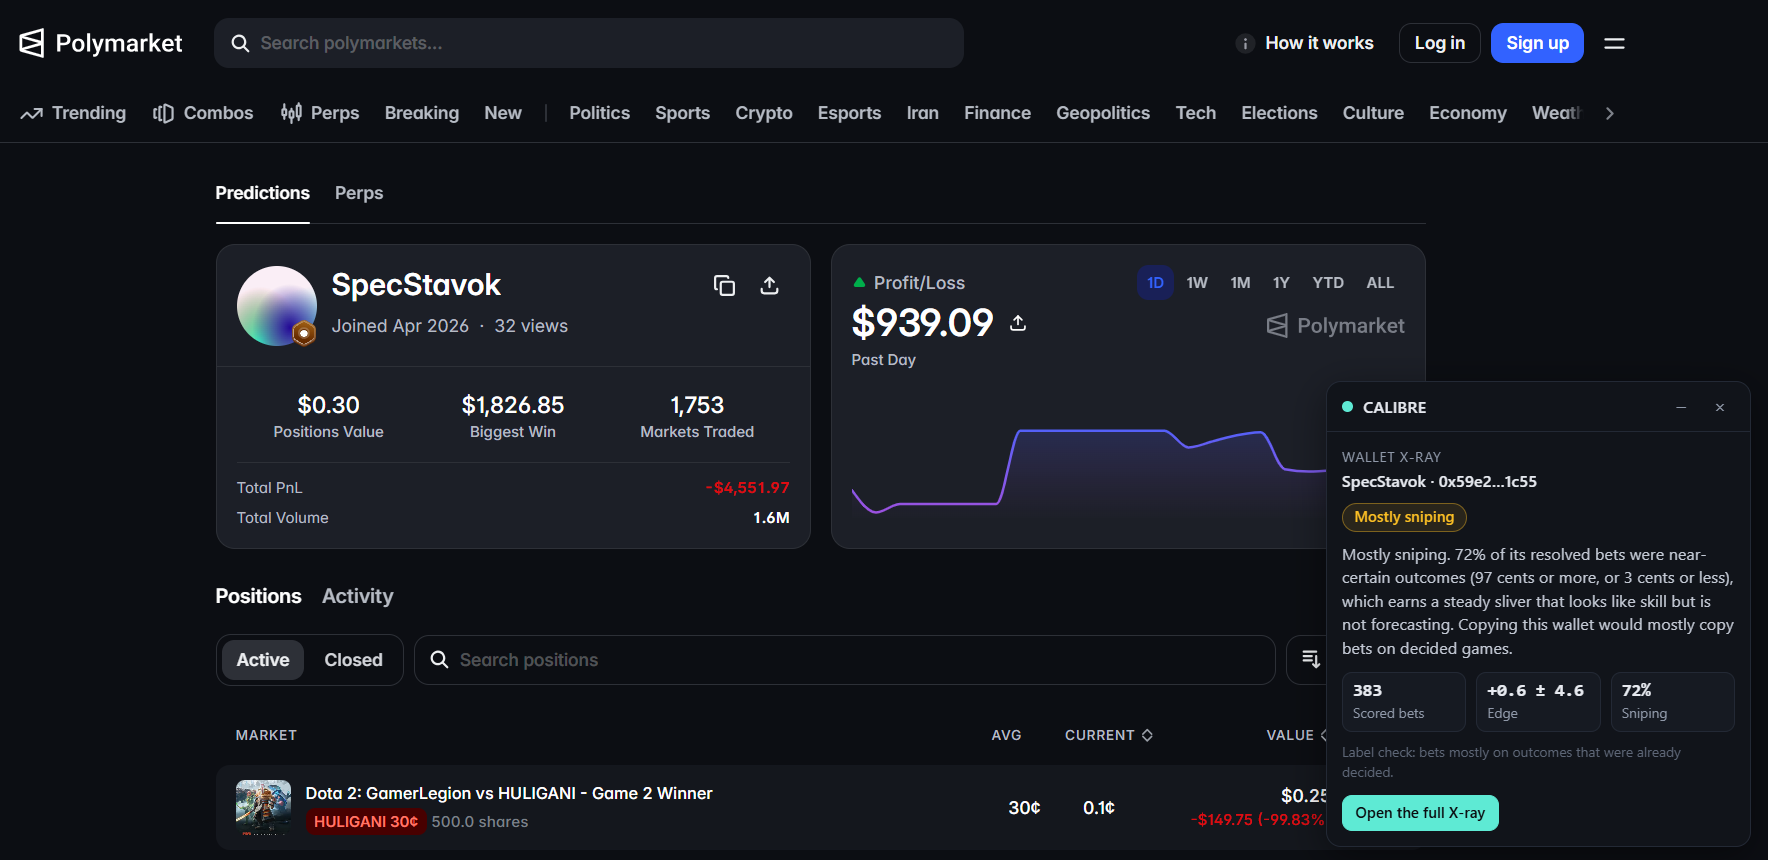
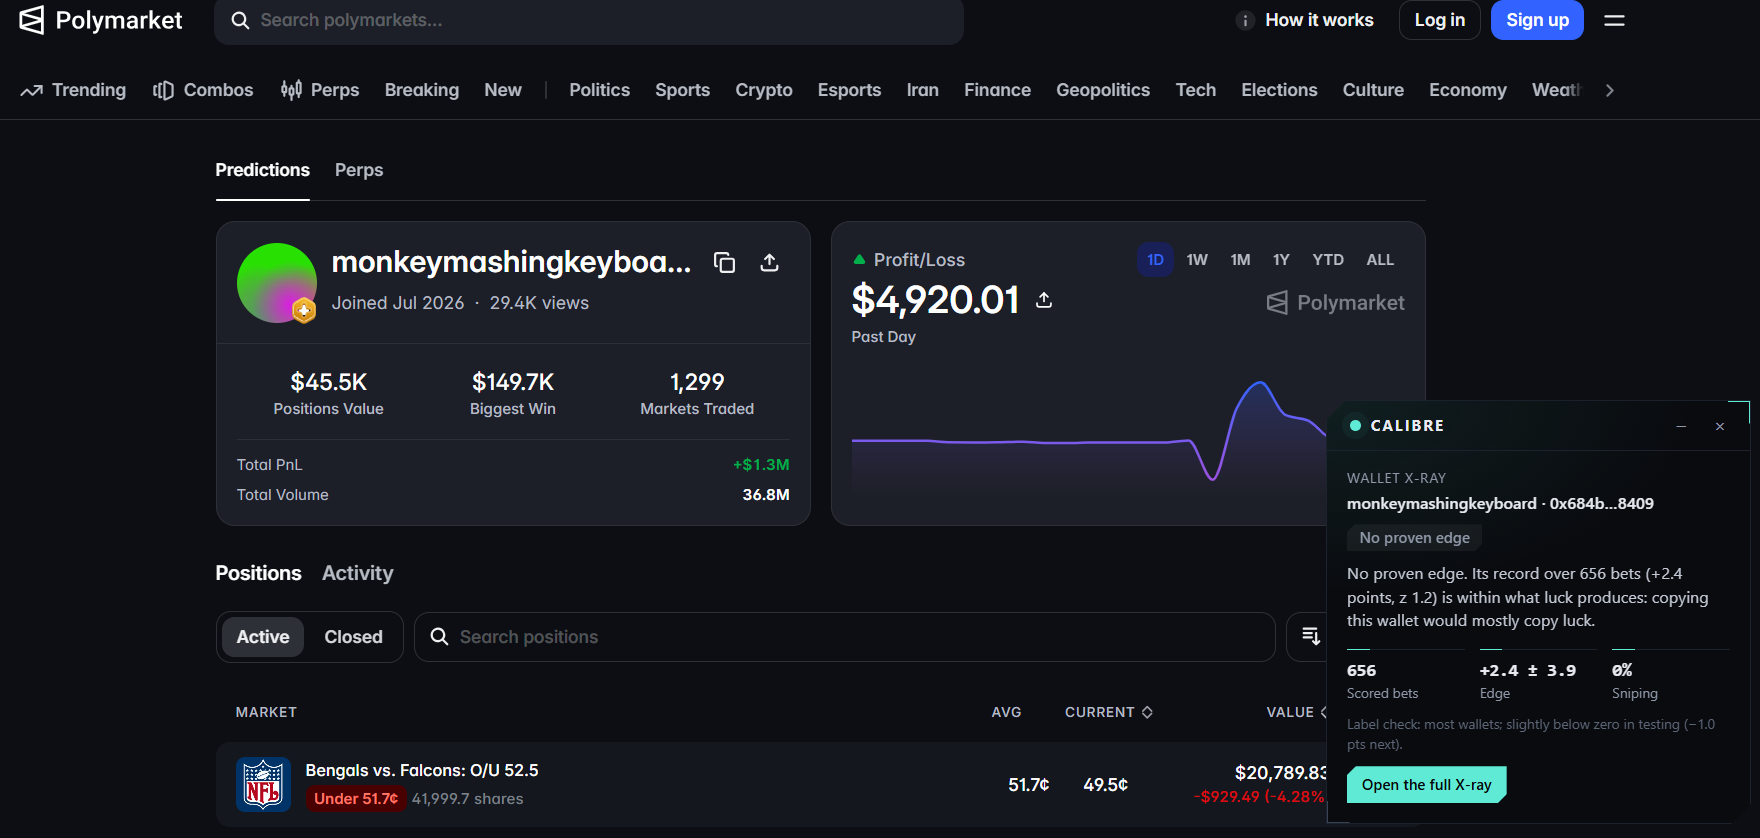
Use a real screenshot of the redesigned extension panel on the extension page and in the README.

diff --git a/apps/web/app/extension/page.tsx b/apps/web/app/extension/page.tsx
@@ -66,8 +66,8 @@ export default function ExtensionPage() {
       {SHOT ? (
         <figure className="overflow-hidden chamfer">
           {/* eslint-disable-next-line @next/next/no-img-element */}
-          <img src={SHOT} alt="The CALIBRE panel on a Polymarket profile, labelling the wallet mostly sniping: 72% of its bets were on outcomes already decided" className="w-full" />
-          <figcaption className="border-t border-line px-5 py-3 text-xs text-faint">The panel on a live Polymarket profile. This wallet looks active, but 72% of its 383 scored bets were on outcomes that were already decided, so copying it would mostly copy bets on finished games.</figcaption>
+          <img src={SHOT} alt="The CALIBRE panel on a Polymarket profile up $1.3M, labelling the wallet no proven edge: its record is within what luck produces" className="w-full" />
+          <figcaption className="border-t border-line px-5 py-3 text-xs text-faint">The panel on a live Polymarket profile. This wallet is up $1.3M, but over 656 scored bets its edge (+2.4 ± 3.9 points) is within what luck produces, so copying it would mostly copy luck.</figcaption>
         </figure>
       ) : null}
 

diff --git a/README.md b/README.md
@@ -9,9 +9,9 @@ that pushed the price, scores each one against the prices it actually paid on it
 whether the move came from proven losers, from the rare proven winner, or from wallets with no record either way. Every judgement
 on a live move is sealed on Walrus Memory before the result is known, and graded in public afterwards.
 
-![The CALIBRE panel on a Polymarket profile, labelling the wallet mostly sniping](apps/web/public/extension-panel.png)
+![The CALIBRE panel on a Polymarket profile up $1.3M, labelling the wallet no proven edge](apps/web/public/extension-panel.png)
 
-*The Chrome extension on a live Polymarket profile: 72% of this wallet's bets were on outcomes already decided.*
+*The Chrome extension on a live Polymarket profile: up $1.3M, yet over 656 bets its edge is within what luck produces.*
 
 ## By the numbers
 
